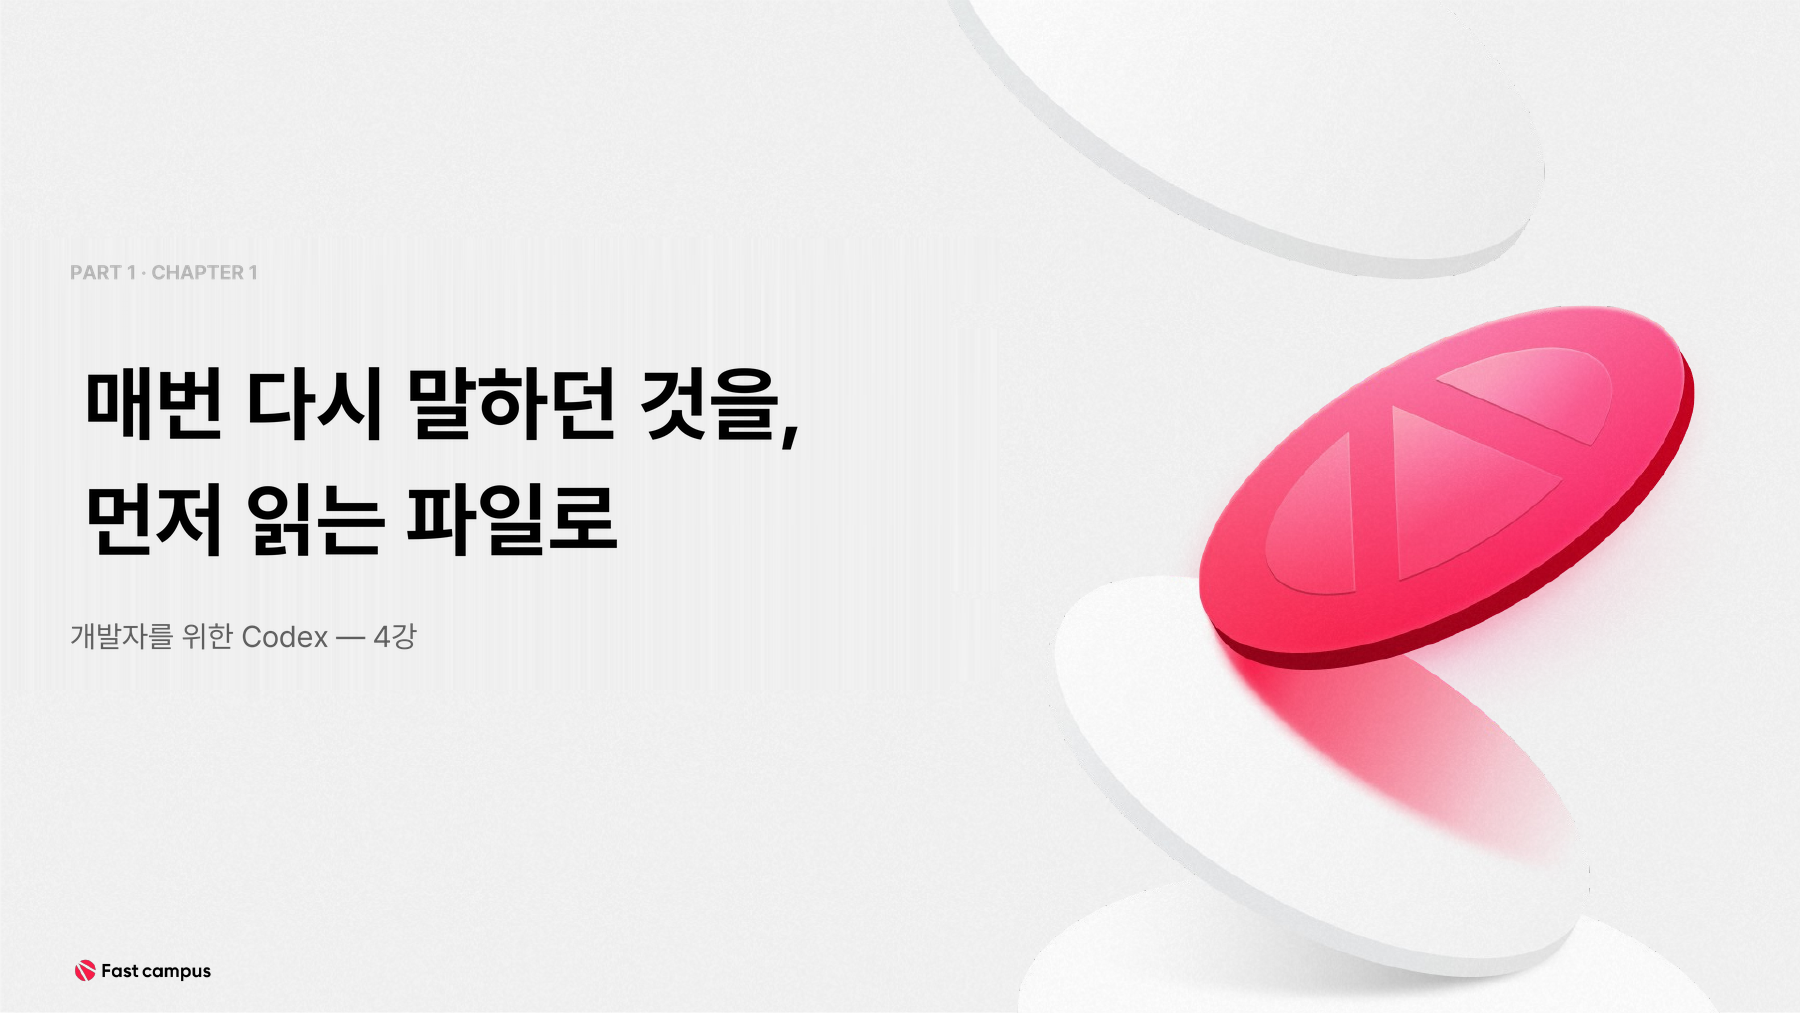
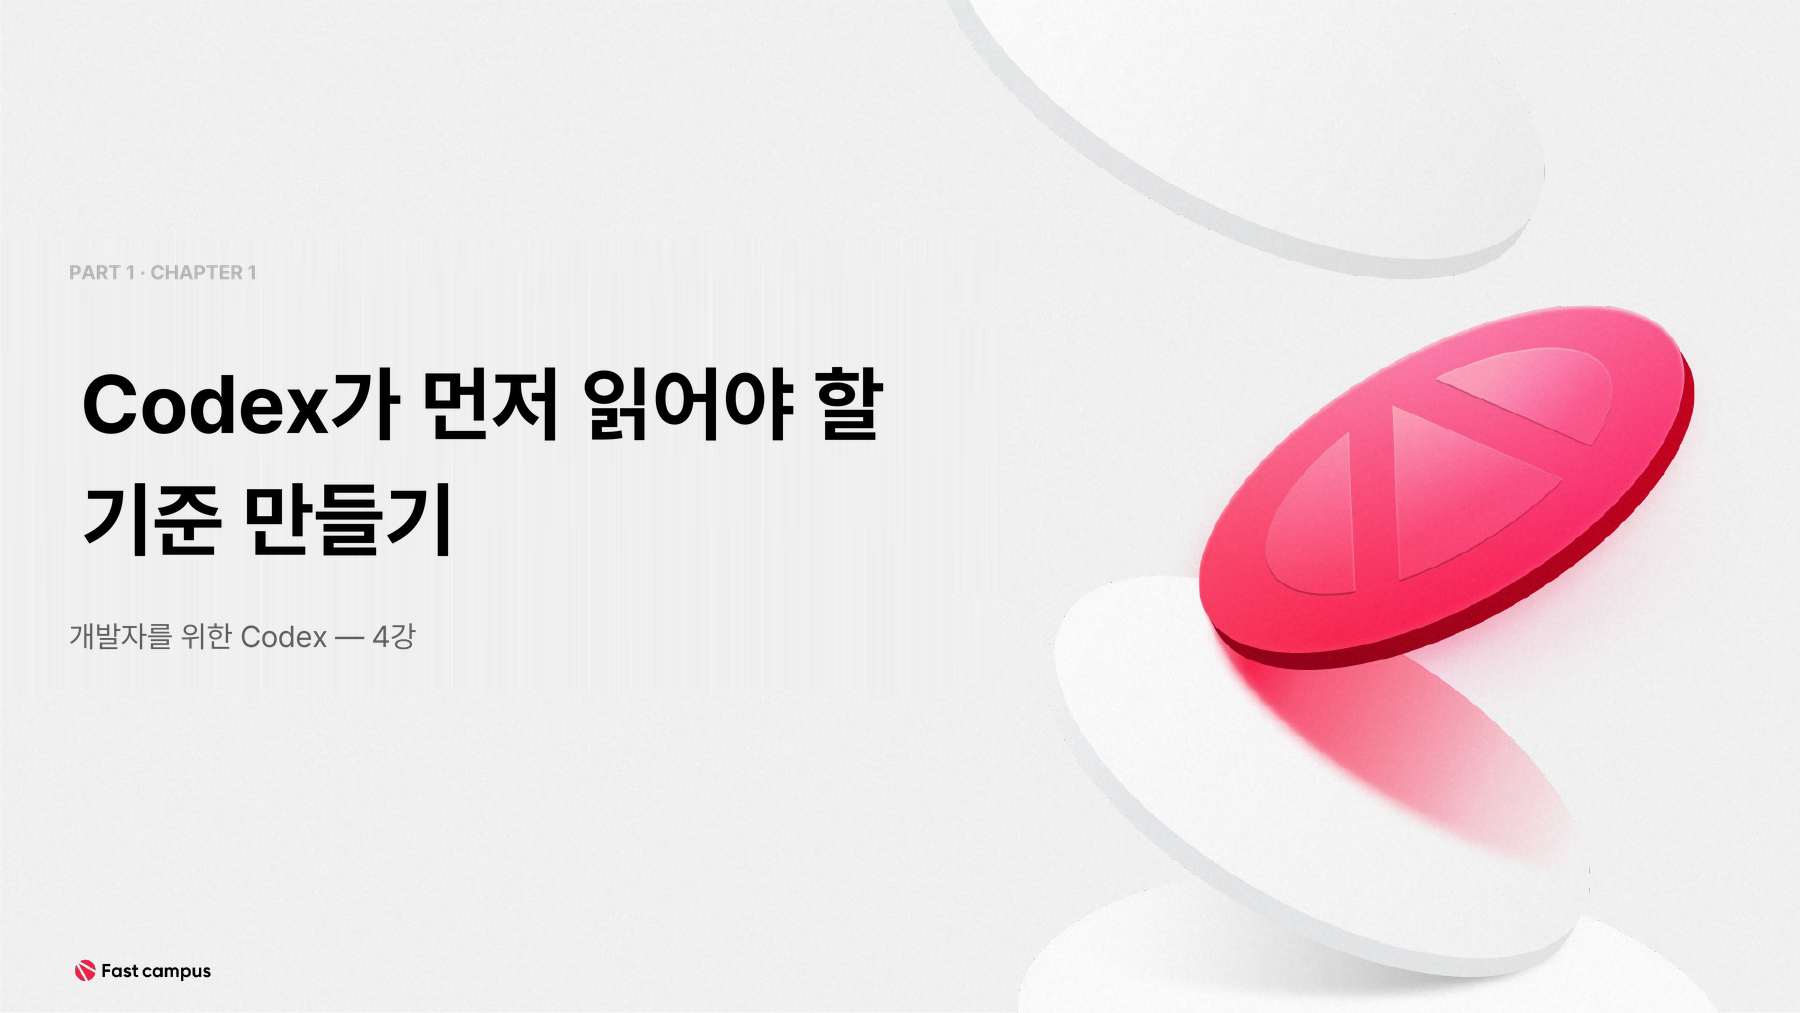
4강 커버 문구를 커리큘럼 제목으로 교체
표지 헤드라인을 「매번 다시 말하던 것을, 먼저 읽는 파일로」에서 커리큘럼 제목
「Codex가 먼저 읽어야 할 기준 만들기」(2행)로 변경. cover04.png 재생성
(cover03에서 텍스트 지우고 새 제목, Pretendard Bold 82, 3x 슈퍼샘플, 그래픽
비침범). 슬라이드 플랜 문구 정본·제작 명세도 동기화. index 썸네일도 갱신됨.

Changed region(s): [[0.0311, 0.3366, 0.4975, 0.5508], [0.0311, 0.612, 0.1866, 0.6426], [0.2177, 0.612, 0.2488, 0.6426]]

diff --git a/ref/lecture04-slide-plan-v1.html b/ref/lecture04-slide-plan-v1.html
@@ -150,13 +150,13 @@
       <div class="wf">
         <div class="mk">
           <div class="kick" style="left:3.43%; top:12.18%;">PART 1 · CHAPTER 1</div>
-          <div class="h cover" style="left:3.43%; top:30%;">매번 다시 말하던 것을,<br>먼저 읽는 파일로</div>
+          <div class="h cover" style="left:3.43%; top:30%;">Codex가 먼저 읽어야 할<br>기준 만들기</div>
           <div class="t mid" style="left:3.43%; top:57%; color:#5B5B5B;">AGENTS.md · 편집 전 기준 · 금지 규칙 · 도구 간 연결</div>
           <div class="t mut" style="left:3.43%; top:65%;">개발자를 위한 Codex — 4강 · 이론 + 실습 · 약 45분</div>
           <div class="mark"></div>
         </div>
         <div class="cap">텍스트 표지 — 0~3강 표지와 같은 톤. 커리큘럼 제목은 부제 자리로, 오늘의 전환(말→파일)을 커버 타이포로</div>
-        <div class="wf-spec"><b>제작 명세:</b> 시간 배분 30초. 템플릿 유형: 01 표지 (01_01). 커버 타이포만. 커리큘럼 제목 「Codex가 먼저 읽어야 할 기준 만들기」보다 오늘의 전환을 담은 「매번 다시 말하던 것을, 먼저 읽는 파일로」가 더 선명하므로 그쪽을 크게 쓴다. 실제 렌더는 <code>assets/cover04.png</code>다 — 0~3강과 같은 템플릿 배경에 이 텍스트를 얹어 만든다. 이 섹션은 <b>문구 정본</b> 역할만 하고 화면에는 PNG가 나간다(gen2.py가 첫 섹션을 커버 이미지로 갈아끼운다). 문구를 바꾸면 PNG도 다시 만들어야 한다.</div>
+        <div class="wf-spec"><b>제작 명세:</b> 시간 배분 30초. 템플릿 유형: 01 표지 (01_01). 커버 타이포만. 헤드라인은 커리큘럼 제목 「Codex가 먼저 읽어야 할 기준 만들기」 그대로 쓴다(2행). 실제 렌더는 <code>assets/cover04.png</code>다 — 0~3강과 같은 템플릿 배경에 이 텍스트를 얹어 만든다. 이 섹션은 <b>문구 정본</b> 역할만 하고 화면에는 PNG가 나간다(gen2.py가 첫 섹션을 커버 이미지로 갈아끼운다). 문구를 바꾸면 PNG도 다시 만들어야 한다.</div>
       </div>
     </div>
   </section>
